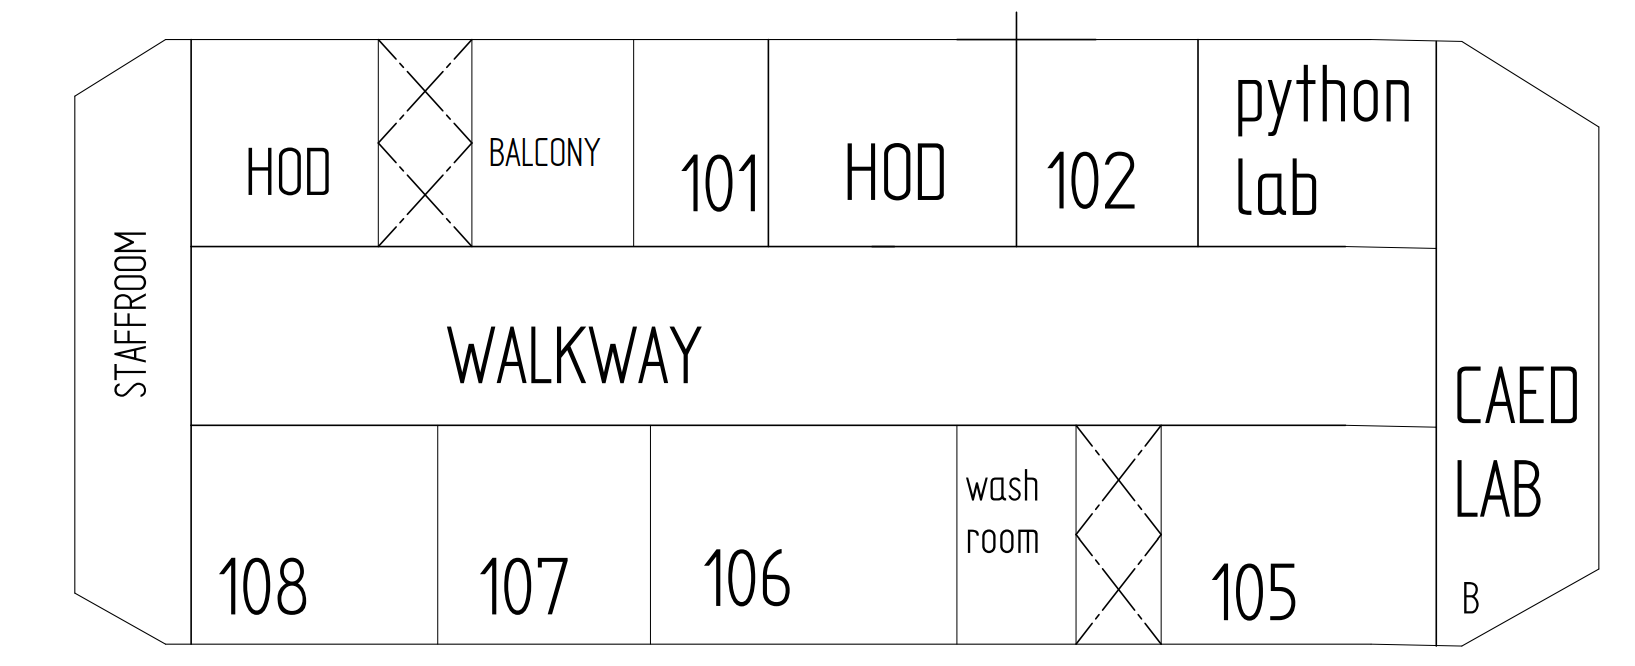
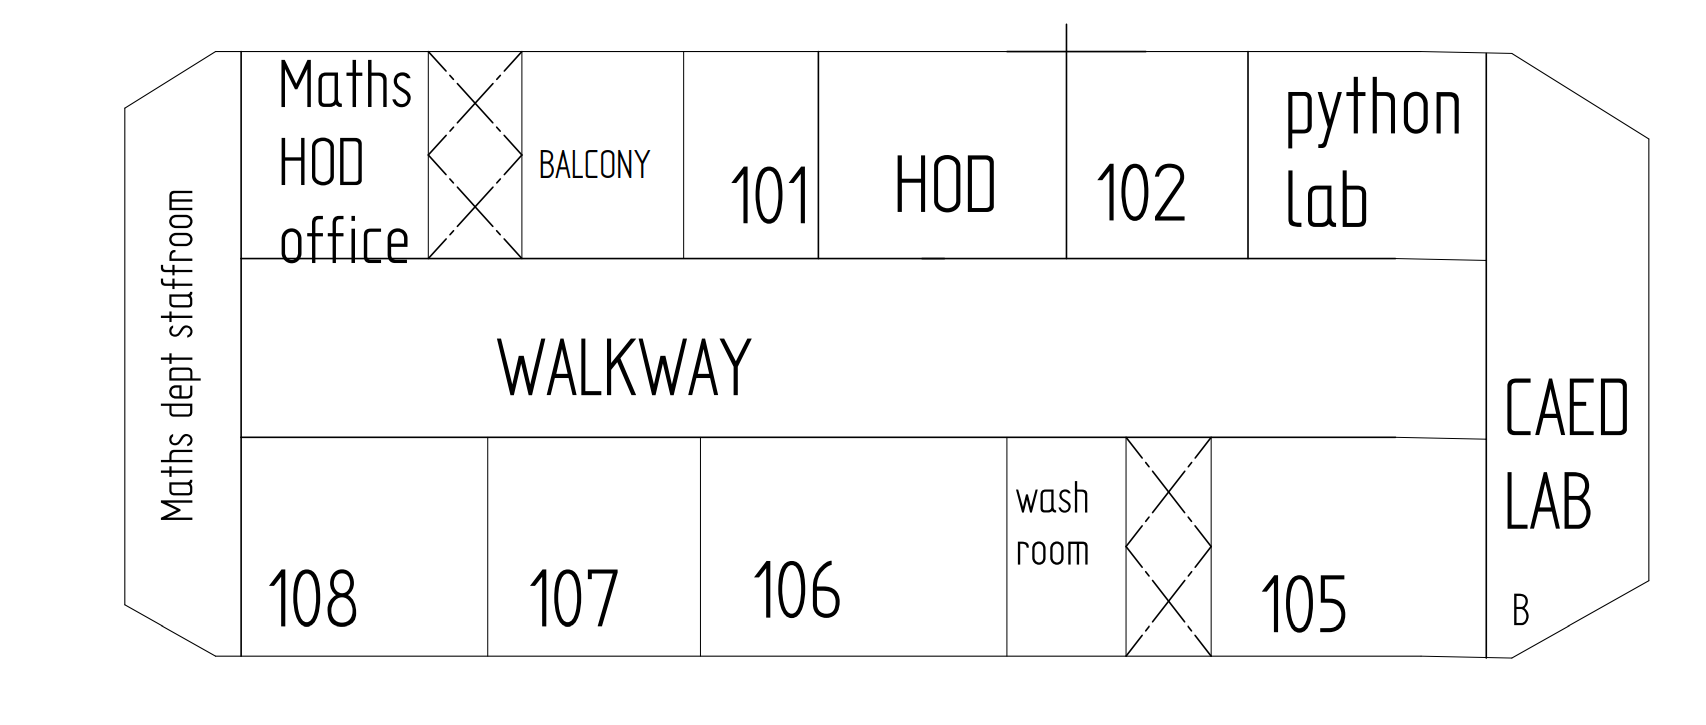
trail-20
minor changes
image swap

diff --git a/index.html b/index.html
@@ -249,8 +249,10 @@ function filterFunction() {
               <a href="#blog" onclick="display('section-a1')">python lab</a>
               <a href="#contact" onclick="display('section-a1')">caed lab</a>
               <a href="#custom" onclick="display('section-bas')">CSD Department</a>
-              <a href="#support" onclick="display('section-bgr')">Support</a>
-              <a href="#tools" onclick="display('section-bgr')">Tools</a>
+              <a href="#support" onclick="display('section-a2')">CSE HOD office</a>
+              <a href="#tools" onclick="display('section-a1')">Maths HOD office</a>
+              <a href="#tools" onclick="display('section-a1')">Maths classroom</a>
+              <a href="#tools" onclick="display('section-a2')">CSE classroom</a>
             </div>
           </div>
   
